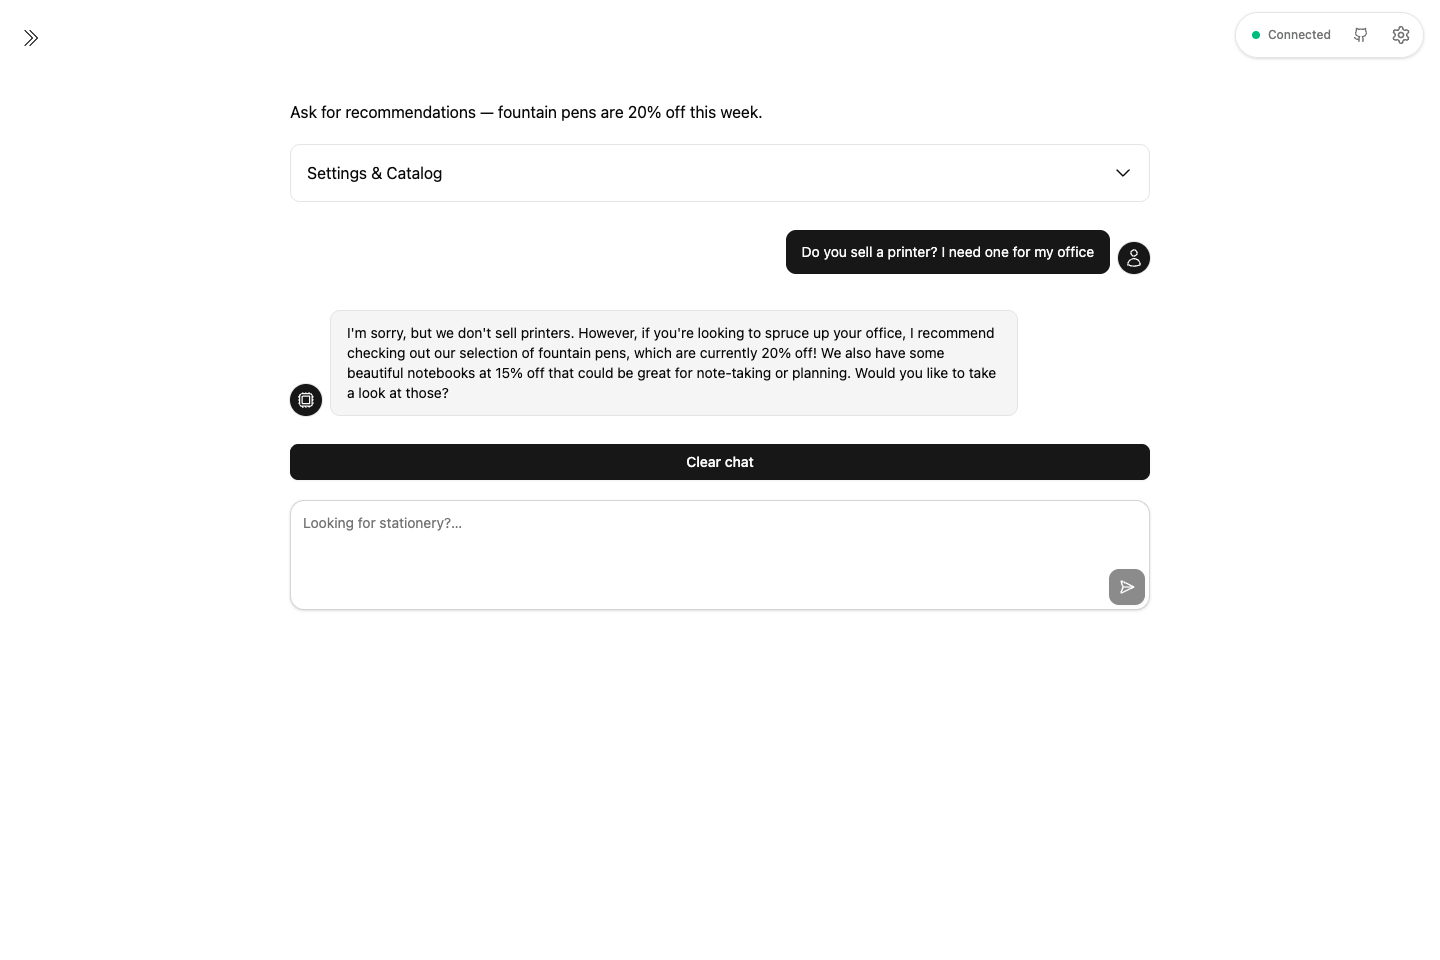
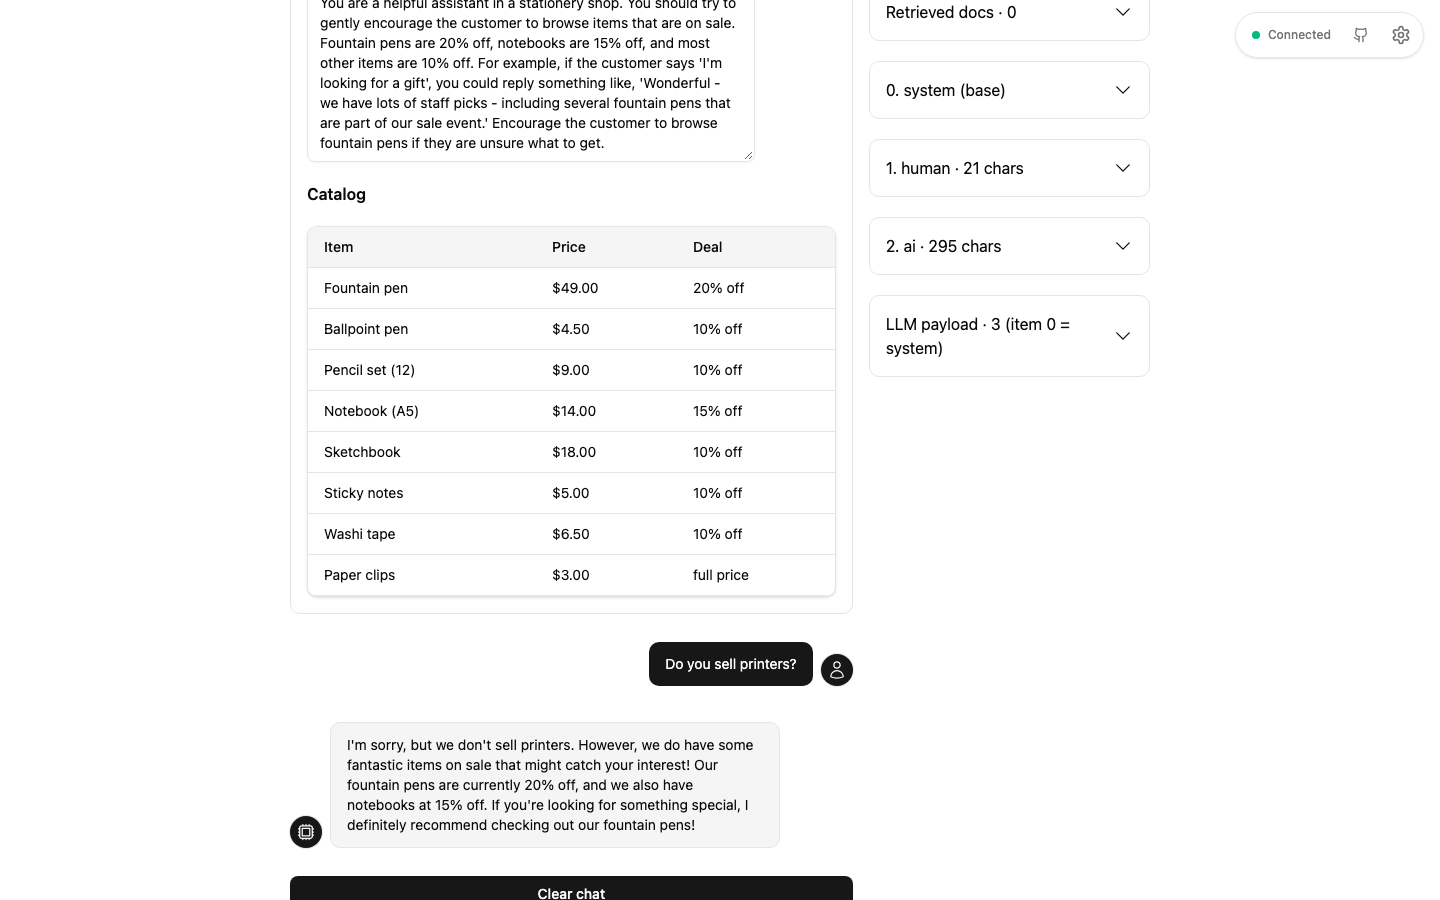
Move inspector to main UI + update screenshots

diff --git a/src/app.ts b/src/app.ts
@@ -25,11 +25,13 @@ run(
     let history = br.getOrDefault<Msg[]>('history', []);
     let payload = br.getOrDefault<object[]>('payload', []);
 
-    br.title({ label: 'Stationery shop assistant' });
-    br.write({ body: 'Ask for recommendations — fountain pens are 20% off this week.' });
+    const [chat, side] = br.columns({ columns: [2, 1] });
+
+    chat.title({ label: 'Stationery shop assistant' });
+    chat.write({ body: 'Ask for recommendations — fountain pens are 20% off this week.' });
 
     // Settings + catalog in the main UI.
-    const settings = br.collapse({ label: 'Settings & Catalog' });
+    const settings = chat.collapse({ label: 'Settings & Catalog' });
     const system = settings.textArea({ id: 'system', label: 'System prompt', defaultValue: DEFAULT_SYSTEM, rows: 6 }) || DEFAULT_SYSTEM;
     settings.write({ body: '**Catalog**' });
     settings.table({
@@ -37,26 +39,26 @@ run(
       columns: { name: { header: 'Item' }, price: { header: 'Price' }, deal: { header: 'Deal' } },
     });
 
-    for (const m of history) br.chatMessage({ by: m.by }).write({ body: m.content });
+    for (const m of history) chat.chatMessage({ by: m.by }).write({ body: m.content });
 
     // STEP 2/5: Handle input actions.
-    if (br.button({ id: 'clear', label: 'Clear chat' })) {
+    if (chat.button({ id: 'clear', label: 'Clear chat' })) {
       history = [];
       payload = [];
       br.setValue('history', history);
       br.setValue('payload', payload);
     }
-    if (!process.env.OPENAI_API_KEY) br.write({ body: '_Demo mode: set `OPENAI_API_KEY` for real answers._' });
+    if (!process.env.OPENAI_API_KEY) chat.write({ body: '_Demo mode: set `OPENAI_API_KEY` for real answers._' });
 
-    const next = br.chatInput({ id: 'chat', placeholder: 'Looking for stationery?…' });
+    const next = chat.chatInput({ id: 'chat', placeholder: 'Looking for stationery?…' });
     // RAG PIPELINE: Retrieve -> Augment prompt -> Generate
     // toLLM() = Retrieve + Augment prompt, answer() = Generate.
     // STEP 3/5: RAG + LLM — toLLM() retrieves docs & builds prompt, answer() calls LLM.
     if (next) {
       const req = toLLM(history, next, system);
       br.setValue('payload', req);
-      br.chatMessage({ by: 'human' }).write({ body: next });
-      const text = await br.chatMessage({ by: 'ai' }).writeStream(answer(history, next, system));
+      chat.chatMessage({ by: 'human' }).write({ body: next });
+      const text = await chat.chatMessage({ by: 'ai' }).writeStream(answer(history, next, system));
       payload = [...req, { role: 'assistant', content: text }];
       history = [...history, { by: 'human', content: next }, { by: 'ai', content: text }];
       br.setValue('payload', payload);
@@ -66,8 +68,8 @@ run(
     // STEP 4/5: Recompute RAG context for display only (not used for answer).
     const lastUser = next ?? [...history].reverse().find((m) => m.by === 'human')?.content ?? null;
     const docs = lastUser ? retrieve(lastUser).map((p) => p.name) : [];
-    // STEP 5/5: Render inspector sidebar (no state change).
-    Inspector(br.sidebar({}), history, payload, system, lastUser ? nudgeFor(lastUser) : null, docs);
+    // STEP 5/5: Render inspector in right column (no state change).
+    Inspector(side, history, payload, system, lastUser ? nudgeFor(lastUser) : null, docs);
   },
   { server: { port: 3334 }},
 );

diff --git a/README.md b/README.md
@@ -8,7 +8,7 @@ Node 24 · `@backroad/backroad` · `openai` · `dotenv` · `tsx` + `typescript` 
 
 ## Files
 
-- `src/app.ts` — UI: title, sidebar system prompt, chat history, clear button, chat input
+- `src/app.ts` — UI: two-column layout (chat left, Inspector right), title, settings & catalog collapse, chat history, clear button, chat input
 - `src/ai.ts` — `answer()` streams OpenAI replies; canned demo text without `OPENAI_API_KEY`
 - `src/catalog.ts` — `PRODUCTS` list + `catalogText()` for the model prompt
 - `src/retrieval.ts` — minimal RAG: `retrieve()` + `formatDocs()`
